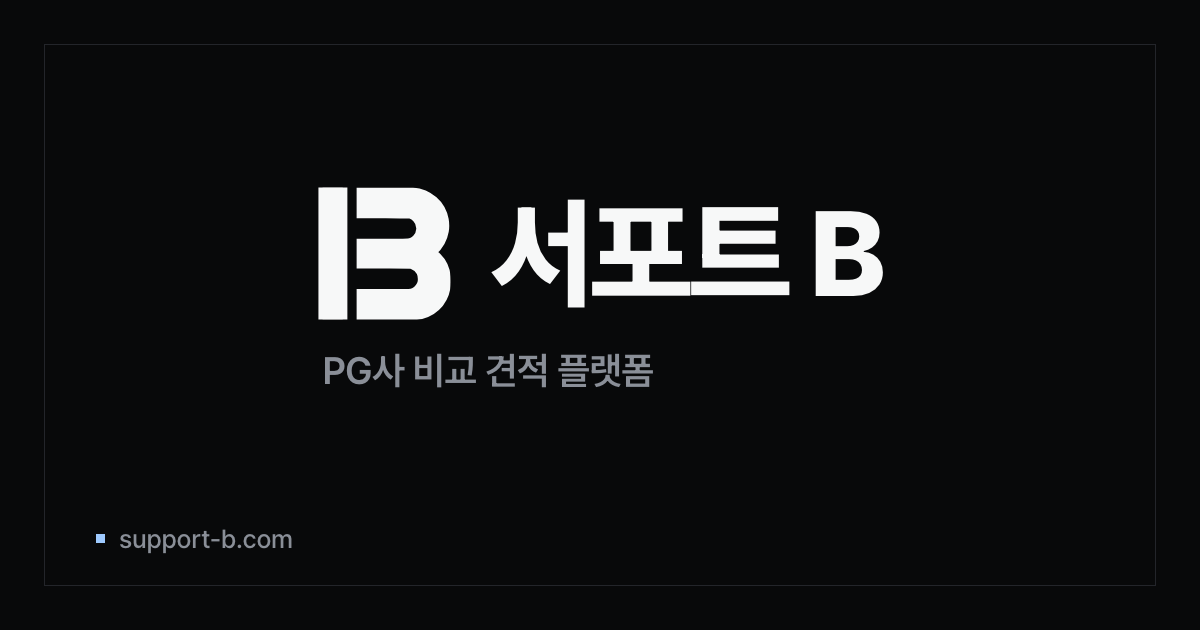
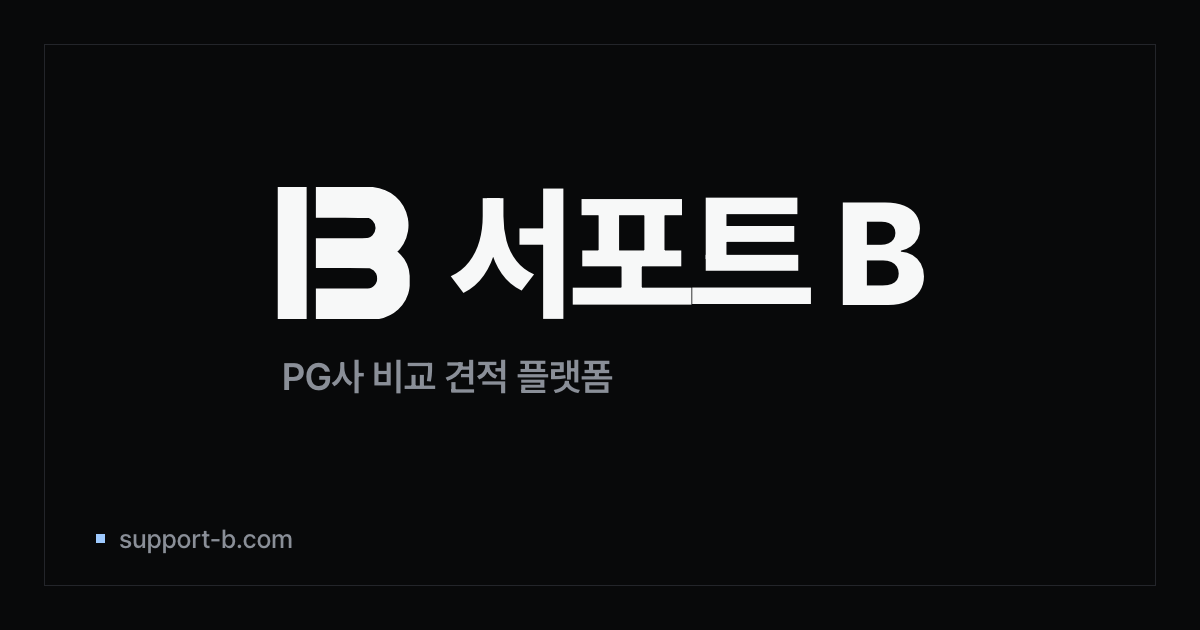
fix(brand): OG 이미지 워드마크 높이를 브랜드 마크와 정확히 일치시킴
Playwright 캔버스 기반 잉크 높이 측정(마크=132px, 기존 워드마크=109px@120px)으로
정확한 배율을 계산해 워드마크 font-size를 145px로 조정. 두 요소 모두 132px 잉크
높이로 픽셀 단위 일치 확인 후 재생성.

Changed region(s): [[0.2158, 0.2714, 0.7708, 0.5127], [0.2158, 0.5429, 0.555, 0.6333]]

diff --git a/scripts/generate-og-image.ts b/scripts/generate-og-image.ts
@@ -94,7 +94,7 @@ function ogHtml(pretendard: string) {
   .wordmark {
     font-family: 'Pretendard', sans-serif;
     font-weight: 800;
-    font-size: 120px;
+    font-size: 145px;
     line-height: 1;
     letter-spacing: -0.04em;
     color: ${COLOR_ON_SURFACE};
